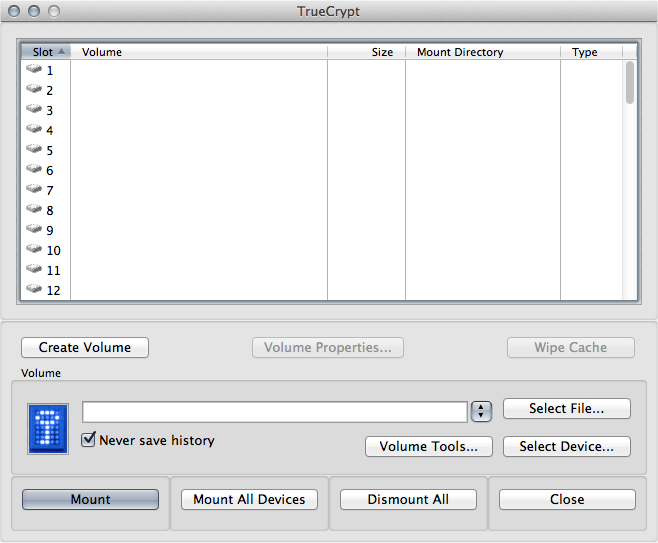
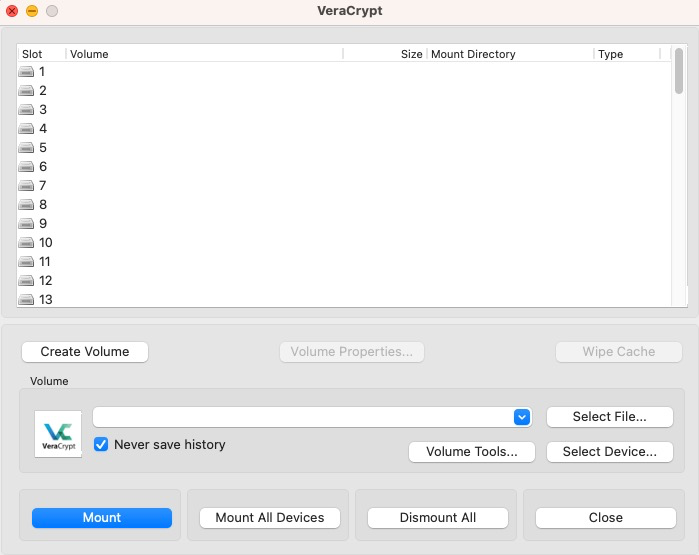
Privacy Guides articles update

diff --git a/src/content/pages/privacy-guides/creating-a-vm-within-a-hidden-truecrypt-partition.md b/src/content/pages/privacy-guides/creating-a-vm-within-a-hidden-truecrypt-partition.md
@@ -1,7 +1,7 @@
 ---
-title: Creating a VM within a hidden truecrypt partition
+title: Creating a VM within a hidden veracrypt partition
 author: Ed Holden
-url: /privacy-guides/creating-a-vm-within-a-hidden-truecrypt-partition/
+url: /privacy-guides/creating-a-vm-within-a-hidden-veracrypt-partition/
 section: Misc
 weight: 10
 date: 2013-10-23T13:54:43+00:00
@@ -16,111 +16,107 @@ The obvious solution to this problem is to encrypt the data. This, however, may 
 The big-picture view of the procedure to set up a hidden encrypted virtual machine are as follows:
 
   1. Download and install the required software: 
-      * [TrueCrypt][1]
-      * [Oracle VirtualBox][2]
+      * [VeraCrypt](https://veracrypt.fr/en/Downloads.html)
+      * [Oracle VirtualBox](https://www.virtualbox.org/)
       * Your operating system of choice (this guide will demonstrate FreeBSD but most other operating systems will work, including Windows and Linux distros such as Ubuntu)
-  2. Create a TrueCrypt encrypted container and a hidden volume within the container.
-  3. Launch VirtualBox and install your private OS into the hidden volume in the TrueCrypt container.
+  2. Create a VeraCrypt encrypted container and a hidden volume within the container.
+  3. Launch VirtualBox and install your private OS into the hidden volume in the VeraCrypt container.
 
 ## Downloading and installing the software
 
-We are going to assume that you already know how to download and install software in your host operating system. Here are a few items to note as you install the software. As of this writing, the latest stable versions of the required software are TrueCrypt v. 7.1a, VirtualBox v. 4.1.20, and FreeBSD 9.0. Be sure to use the latest versions of these applications to ensure that known bugs and security issues have been addressed. Also, since TrueCrypt will be the crux of your secure operating environment, be sure to validate the downloaded file with TrueCrypt's PGP signature to ensure that the application has not been tampered with (available from [www.truecrypt.org/downloads][3]).
+We are going to assume that you already know how to download and install software in your host operating system. Here are a few items to note as you install the software. As of this writing, the latest stable versions of the required software are VeraCrypt v. 1.25.4, VirtualBox v. 4.1.20, and FreeBSD 9.0. Be sure to use the latest versions of these applications to ensure that known bugs and security issues have been addressed. Also, since VeraCrypt will be the crux of your secure operating environment, be sure to validate the downloaded file with VeraCrypt's PGP signature to ensure that the application has not been tampered with (available from [https://veracrypt.fr/en/Downloads.html](https://veracrypt.fr/en/Downloads.html)).
 
 ## Creating the Hidden Volume
-1. Launch the TrueCrypt application and select `Create Volume`
-  ![Virtualbox screenshot setting up hidden truecrypt partition](/images-static/uploads/how-to-create-VM-within-hidden-truecrypt-partition-00.png)
+1. Launch the VeraCrypt application and select `Create Volume`<br></br>
+  ![](/images-static/uploads/how-to-create-VM-within-hidden-truecrypt-partition-00.png)
 
-2. Select the option to create an encrypted file container. This will give you the ability to keep the entire system portable (you can keep it on your hard drive, place it on a USB stick, etc.) Optionally, you can choose instead to actually create an encrypted partition on one of your devices.
-  ![Virtualbox screenshot setting up hidden truecrypt partition](/images-static/uploads/how-to-create-VM-within-hidden-truecrypt-partition-01.png)
+2. Select the option to create an encrypted file container. This will give you the ability to keep the entire system portable (you can keep it on your hard drive, place it on a USB stick, etc.) Optionally, you can choose instead to actually create an encrypted partition on one of your devices.<br></br>
+  ![](/images-static/uploads/how-to-create-VM-within-hidden-truecrypt-partition-01.png)
 
-3. At this screen, select the option to create a hidden TrueCrypt volume.
-  ![Virtualbox screenshot setting up hidden truecrypt partition](/images-static/uploads/how-to-create-VM-within-hidden-truecrypt-partition-03.png)
+3. At this screen, select the option to create a hidden VeraCrypt volume.<br></br>
+  ![](/images-static/uploads/how-to-create-VM-within-hidden-truecrypt-partition-02.png)
 
-4. Here you choose a filename for your container and a location to store it. Do not worry too much about hiding this file, its location is not a factor in protecting the plausible deniability of the existence of your virtual machine.
-  ![Virtualbox screenshot setting up hidden truecrypt partition](/images-static/uploads/how-to-create-VM-within-hidden-truecrypt-partition-02.png)
+4. Here you choose a filename for your container and a location to store it. Do not worry too much about hiding this file, its location is not a factor in protecting the plausible deniability of the existence of your virtual machine.<br></br>
+  ![](/images-static/uploads/how-to-create-VM-within-hidden-truecrypt-partition-03.png)
 
-5. Here, you are to select the encryption and hash functions. Unless you have compelling reasons otherwise, it is recommended to use the default settings.
-  ![Virtualbox screenshot setting up hidden truecrypt partition](/images-static/uploads/how-to-create-VM-within-hidden-truecrypt-partition-04.png)
+5. Here, you are to select the encryption and hash functions. Unless you have compelling reasons otherwise, it is recommended to use the default settings.<br></br>
+  ![](/images-static/uploads/how-to-create-VM-within-hidden-truecrypt-partition-04.png)
 
-6. Select the size for your outer container. This should be large enough to accomodate both your decoy files and your hidden container that will hold your virtual machine.
-  ![Virtualbox screenshot setting up hidden truecrypt partition](/images-static/uploads/how-to-create-VM-within-hidden-truecrypt-partition-05.png)
+6. Select the size for your outer container. This should be large enough to accomodate both your decoy files and your hidden container that will hold your virtual machine.<br></br>
+  ![](/images-static/uploads/how-to-create-VM-within-hidden-truecrypt-partition-05.png)
 
-7. Now you are prompted to set the password for your outer container. It is important to heed the password recommendations provided by TrueCrypt on this screen. This password is the first layer in the `defense-in-depth` model provided by this system.
-  ![Virtualbox screenshot setting up hidden truecrypt partition](/images-static/uploads/how-to-create-VM-within-hidden-truecrypt-partition-06.png)
+7. Now you are prompted to set the password for your outer container. It is important to heed the password recommendations provided by VeraCrypt on this screen. This password is the first layer in the `defense-in-depth` model provided by this system.<br></br>
+  ![](/images-static/uploads/how-to-create-VM-within-hidden-truecrypt-partition-06.png)
 
-8. Now it is time to generate some entropy to base the cryptographic keys upon. Keep your mouse moving for a bit, but do not get carried away and waste too much time here.
-  ![Virtualbox screenshot setting up hidden truecrypt partition](/images-static/uploads/how-to-create-VM-within-hidden-truecrypt-partition-07.png)
+8. Now it is time to generate some entropy to base the cryptographic keys upon. Keep your mouse moving for a bit, but do not get carried away and waste too much time here.<br></br>
+  ![](/images-static/uploads/how-to-create-VM-within-hidden-truecrypt-partition-07.png)
 
-9. You have now created the outer volume; follow TrueCrypt's recommendations about placing decoy files within the volume. After completing that step, continue on until you get to the hidden volume encryption options box.
-  ![Virtualbox screenshot setting up hidden truecrypt partition](/images-static/uploads/how-to-create-VM-within-hidden-truecrypt-partition-08.png)
+9. You have now created the outer volume; follow VeraCrypt's recommendations about placing decoy files within the volume. After completing that step, continue on until you get to the hidden volume encryption options box.<br></br>
+  ![](/images-static/uploads/how-to-create-VM-within-hidden-truecrypt-partition-08.png)
 
-10. Again you are to select the encryption and hash functions, this time for the hidden volume. Unless you have compelling reasons otherwise, it is recommended to use the default settings.
-  ![Virtualbox screenshot setting up hidden truecrypt partition](/images-static/uploads/how-to-create-VM-within-hidden-truecrypt-partition-09.png)
+10. Again you are to select the encryption and hash functions, this time for the hidden volume. Unless you have compelling reasons otherwise, it is recommended to use the default settings.<br></br>
+  ![](/images-static/uploads/how-to-create-VM-within-hidden-truecrypt-partition-09.png)
 
-11. When selecting the size for the hidden volume, be sure to leave enough space outside of it for any additional decoy files you would like to place in the outer container.
-  ![Virtualbox screenshot setting up hidden truecrypt partition](/images-static/uploads/how-to-create-VM-within-hidden-truecrypt-partition-10.png)
+11. When selecting the size for the hidden volume, be sure to leave enough space outside of it for any additional decoy files you would like to place in the outer container.<br></br>
+  ![](/images-static/uploads/how-to-create-VM-within-hidden-truecrypt-partition-10.png)
 
-12. Now you are prompted to set the password for your hidden inner container. Make sure to set a password that is different from the outer volume password. Depending on which password you enter during usage, TrueCrypt will either mount the outer or hidden inner volume. This is the final layer of security before a person has access to your secret virtual machine: take that into consideration when creating you password.
-  ![Virtualbox screenshot setting up hidden truecrypt partition](/images-static/uploads/how-to-create-VM-within-hidden-truecrypt-partition-11.png)
+12. Now you are prompted to set the password for your hidden inner container. Make sure to set a password that is different from the outer volume password. Depending on which password you enter during usage, VeraCrypt will either mount the outer or hidden inner volume. This is the final layer of security before a person has access to your secret virtual machine: take that into consideration when creating you password.<br></br>
+  ![](/images-static/uploads/how-to-create-VM-within-hidden-truecrypt-partition-11.png)
 
-13. When choosing the filesystem to format your hidden container with, it is recommended to choose FAT for compatibility reasons (this may get changed during the installation of whatever OS you decide to install in the hidden partition).
-  ![Virtualbox screenshot setting up hidden truecrypt partition](/images-static/uploads/how-to-create-VM-within-hidden-truecrypt-partition-12.png)
+13. When choosing the filesystem to format your hidden container with, it is recommended to choose FAT for compatibility reasons (this may get changed during the installation of whatever OS you decide to install in the hidden partition).<br></br>
+  ![](/images-static/uploads/how-to-create-VM-within-hidden-truecrypt-partition-12.png)
 
-14. Again, we need to create some entropy for the encryption keys of the hidden volume. The more the better, but again, do not get carried away and waste too much time - remember, you are just trying to add some `true` randomness to the pseudo-random number generator being used to create the keys.
-  ![Virtualbox screenshot setting up hidden truecrypt partition](/images-static/uploads/how-to-create-VM-within-hidden-truecrypt-partition-13.png)
+14. Again, we need to create some entropy for the encryption keys of the hidden volume. The more the better, but again, do not get carried away and waste too much time - remember, you are just trying to add some `true` randomness to the pseudo-random number generator being used to create the keys.<br></br>
+  ![](/images-static/uploads/how-to-create-VM-within-hidden-truecrypt-partition-13.png)
 
-15. You are now done creating the outer encrypted volume (which will hold the decoy and your hidden volume) and the hidden volume itself. Click `Exit.` Now we move on to installing your virtual machine inside of the hidden volume.
-  ![Virtualbox screenshot setting up hidden truecrypt partition](/images-static/uploads/how-to-create-VM-within-hidden-truecrypt-partition-14.png)
+15. You are now done creating the outer encrypted volume (which will hold the decoy and your hidden volume) and the hidden volume itself. Click `Exit.` Now we move on to installing your virtual machine inside of the hidden volume.<br></br>
+  ![](/images-static/uploads/how-to-create-VM-within-hidden-truecrypt-partition-14.png)
 
-## Installing your OS of choice using VirtualBox and TrueCrypt
+## Installing your OS of choice using VirtualBox and VeraCrypt
 
-1. Make sure that you have unmounted any TrueCrypt volumes. Launch the TrueCrypt application if it is not already loaded and select your encrypted container file to mount. After clicking `Mount`, you will be prompted to enter your password. Be sure to enter the password you selected for the hidden container, not the outer container, since this is where we will be storing your new virtual machine.
-  ![Virtualbox screenshot setting up hidden truecrypt partition](/images-static/uploads/how-to-create-VM-within-hidden-truecrypt-partition-15.png)
+1. Make sure that you have unmounted any VeraCrypt volumes. Launch the VeraCrypt application if it is not already loaded and select your encrypted container file to mount. After clicking `Mount`, you will be prompted to enter your password. Be sure to enter the password you selected for the hidden container, not the outer container, since this is where we will be storing your new virtual machine.<br></br>
+  ![](/images-static/uploads/how-to-create-VM-within-hidden-truecrypt-partition-15.png)
 
-2. The main TrueCrypt screen should show that the hidden volume is mounted.
-  ![Virtualbox screenshot setting up hidden truecrypt partition](/images-static/uploads/how-to-create-VM-within-hidden-truecrypt-partition-16.png)
+2. The main VeraCrypt screen should show that the hidden volume is mounted.<br></br>
+  ![](/images-static/uploads/how-to-create-VM-within-hidden-truecrypt-partition-16.png)
   
-3. Now launch VirtualBox and select `New` to create a new virtual machine.
-  ![Virtualbox screenshot setting up hidden truecrypt partition](/images-static/uploads/how-to-create-VM-within-hidden-truecrypt-partition-17.png)
+3. Now launch VirtualBox and select `New` to create a new virtual machine.<br></br>
+  ![](/images-static/uploads/how-to-create-VM-within-hidden-truecrypt-partition-17.png)
   
-4. Continue through the wizard and enter the name and type of OS you will be installing
-  ![Virtualbox screenshot setting up hidden truecrypt partition](/images-static/uploads/how-to-create-VM-within-hidden-truecrypt-partition-18.png)
+4. Continue through the wizard and enter the name and type of OS you will be installing<br></br>
+  ![](/images-static/uploads/how-to-create-VM-within-hidden-truecrypt-partition-18.png)
   
-5. Select an appropriate amount of RAM to be allocated to your virtual machine; the more, the better, but remember not to choke out your host OS.
-  ![Virtualbox screenshot setting up hidden truecrypt partition](/images-static/uploads/how-to-create-VM-within-hidden-truecrypt-partition-19.png)
+5. Select an appropriate amount of RAM to be allocated to your virtual machine; the more, the better, but remember not to choke out your host OS.<br></br>
+  ![](/images-static/uploads/how-to-create-VM-within-hidden-truecrypt-partition-19.png)
   
-6. Here you will create the file that will represent your virtual machine disk. Feel free to use the default option unless you will need to be able to open the virtual machine using another VM manager (such as Parallels if you are on a Mac). 
-  ![Virtualbox screenshot setting up hidden truecrypt partition](/images-static/uploads/how-to-create-VM-within-hidden-truecrypt-partition-20.png)
-  ![Virtualbox screenshot setting up hidden truecrypt partition](/images-static/uploads/how-to-create-VM-within-hidden-truecrypt-partition-21.png)
+6. Here you will create the file that will represent your virtual machine disk. Feel free to use the default option unless you will need to be able to open the virtual machine using another VM manager (such as Parallels if you are on a Mac).<br></br>
+  ![](/images-static/uploads/how-to-create-VM-within-hidden-truecrypt-partition-20.png)
+  ![](/images-static/uploads/how-to-create-VM-within-hidden-truecrypt-partition-21.png)
   
-7. A dynamically allocated file will be fine - your space is already allocated during the TrueCrypt hidden volume creation process.
-  ![Virtualbox screenshot setting up hidden truecrypt partition](/images-static/uploads/how-to-create-VM-within-hidden-truecrypt-partition-22.png)
+7. A dynamically allocated file will be fine - your space is already allocated during the VeraCrypt hidden volume creation process.<br></br>
+  ![](/images-static/uploads/how-to-create-VM-within-hidden-truecrypt-partition-22.png)
   
-8. Now you will set the location of the file. Put it in the volume mounted by TrueCrypt (remember, this is automatically your hidden volume because you used the hidden volume password when you mounted the file in TrueCrypt). It is recommended that you set the max size to be slightly smaller than the amount of space that you reserved for your hidden volume in TrueCrypt.
-  ![Virtualbox screenshot setting up hidden truecrypt partition](/images-static/uploads/how-to-create-VM-within-hidden-truecrypt-partition-23.png)
+8. Now you will set the location of the file. Put it in the volume mounted by VeraCrypt (remember, this is automatically your hidden volume because you used the hidden volume password when you mounted the file in VeraCrypt). It is recommended that you set the max size to be slightly smaller than the amount of space that you reserved for your hidden volume in VeraCrypt.<br></br>
+  ![](/images-static/uploads/how-to-create-VM-within-hidden-truecrypt-partition-23.png)
   
-9. The new virtual machine should be created and appear in the main VirtualBox screen. Select the new VM and power it on.
-  ![Virtualbox screenshot setting up hidden truecrypt partition](/images-static/uploads/how-to-create-VM-within-hidden-truecrypt-partition-24.png)
+9. The new virtual machine should be created and appear in the main VirtualBox screen. Select the new VM and power it on.<br></br>
+  ![](/images-static/uploads/how-to-create-VM-within-hidden-truecrypt-partition-24.png)
   
-10. On the first launch of the new VM, you will be met with an installer wizard to help you get your new OS installed in the VM. Continue with the process for installing your OS of choice (either from a downloaded iso or CD/other install media).
-  ![Virtualbox screenshot setting up hidden truecrypt partition](/images-static/uploads/how-to-create-VM-within-hidden-truecrypt-partition-25.png)
+10. On the first launch of the new VM, you will be met with an installer wizard to help you get your new OS installed in the VM. Continue with the process for installing your OS of choice (either from a downloaded iso or CD/other install media).<br></br>
+  ![](/images-static/uploads/how-to-create-VM-within-hidden-truecrypt-partition-25.png)
   
-11. After getting your new system up and running, shut down the VM and right click on the VM in the main VirtualBox screen and click `Settings`. Select `Advanced` under the System heading and change the snapshots storage location to be the mounted hidden TrueCrypt volume.Additionally, you should move the VM's .vbox file from its normal location (usually in the `Virtual Box VMs` directory in your home directory) into the hidden TrueCrypt volume with the .vdi file that represents your virtual machine itself.
-  ![Virtualbox screenshot setting up hidden truecrypt partition](/images-static/uploads/how-to-create-VM-within-hidden-truecrypt-partition-26.png)
+11. After getting your new system up and running, shut down the VM and right click on the VM in the main VirtualBox screen and click `Settings`. Select `Advanced` under the System heading and change the snapshots storage location to be the mounted hidden VeraCrypt volume. Additionally, you should move the VM's .vbox file from its normal location (usually in the `Virtual Box VMs` directory in your home directory) into the hidden VeraCrypt volume with the .vdi file that represents your virtual machine itself.<br></br>
+  ![](/images-static/uploads/how-to-create-VM-within-hidden-truecrypt-partition-26.png)
 
 ## Usage
 
-To launch your new hidden VM, mount your TrueCrypt hidden volume by opening the container file in TrueCrypt, but supply your hidden volume password instead of your outer volume password. Then double click the .vbox file. This will launch VirtualBox and start up the secret VM.
+To launch your new hidden VM, mount your VeraCrypt hidden volume by opening the container file in VeraCrypt, but supply your hidden volume password instead of your outer volume password. Then double click the .vbox file. This will launch VirtualBox and start up the secret VM.
 
-Be sure to unmount the hidden volume in TrueCrypt when you are done using your VM.
+Be sure to unmount the hidden volume in VeraCrypt when you are done using your VM.
 
-The fact that you have a block of encrypted data on your hard drive will be apparent to anyone who inspects your computer. If you are forced to decrypt it, simply provide the outer container password instead of the inner container password and all that will be visible is the decoy files you placed there earlier. There is no way to tell that the remaining encrypted data is not just filler created when TrueCrypt generated the outer container. You now have plausible deniability that there is anything else, let alone a separate virtual machine, on your computer. To read more on why this works, visit <http://www.truecrypt.org/docs/?s=hidden-volume>
+The fact that you have a block of encrypted data on your hard drive will be apparent to anyone who inspects your computer. If you are forced to decrypt it, simply provide the outer container password instead of the inner container password and all that will be visible is the decoy files you placed there earlier. There is no way to tell that the remaining encrypted data is not just filler created when VeraCrypt generated the outer container. You now have plausible deniability that there is anything else, let alone a separate virtual machine, on your computer. To read more on why this works, visit <https://veracrypt.fr/en/Documentation.html>
 
 ### Caveats
 
   1. After you are done using your secret VM and have shut it down, be sure to right-click on it in the main VirtualBox screen and select Remove (but not delete all data). This will keep it from being listed if someone launches VirtualBox (though it would not boot anyway if your hidden volume is not mounted). Again, this helps to add to the plausible deniability of the hidden VM's existence.
   2. Be sure not to create any shared directories or folders between the secret VM and your host OS. You want this VM to be completely segregated from the rest of your computer to eliminate the possibility of data leaking either way.
-
- [1]: http://www.truecrypt.org/
- [2]: http://www.virtualbox.org
- [3]: http://www.truecrypt.org/downloads

diff --git a/src/content/pages/privacy-guides/online-privacy-through-opsec-and-compartmentalization-part-3.md b/src/content/pages/privacy-guides/online-privacy-through-opsec-and-compartmentalization-part-3.md
@@ -28,7 +28,7 @@ layout: guides-details
 
 Common themes in these examples are poor planning, wishful thinking, and carelessness. Given the advantage of hindsight, it's clear that these people were not paying enough attention. They weren't planning ahead, and thinking things through. That is, their Operations Security (OPSEC) was horrible. Basically, OPSEC is just common sense. But it's common sense that's organized into a structured process. An authoritative source is arguably the [DoD Operations Security (OPSEC) Program Manual][1]. OPSEC Professionals also has a [slide deck][2], which is comprehensive and well-presented, but somewhat campy. It points out that the OPSEC "5-Step Process" is more accurately described as a continuous cycle of identification [of information that must be secured], analysis [of threats, vulnerabilities and risks] and remediation. That is, OPSEC is a way of being. For a hacker perspective, I recommend the grugq's classic [OPSEC for hackers][3]. Also great are follow-on interviews in [Blogs of War][4] and [Privacy PC][5].
 
-Another great source is [73 Rules of Spycraft][6] by Allen Dulles. Also see the original [article about them][7] by James Srodes, from the [Intelligencer][8]. Allen Dulles played a key intelligence role against Germany during WWII, and then in the Cold War, as the first civilian Director of Central Intelligence. He's rather controversial, especially regarding his role in the Bay of Pigs fiasco, and perhaps the JFK assassination. David Talbot wrote a biography, [The Devil's Chessboard][9]. And later [opined][10]: "I think that you can make a case, although I didn't explicitly say this in the book, for Allen Dulles being a psychopath." The CIA [predictably disagreed][11], albeit rather politely. But noted progressive Joseph Palermo [fundamentally agreed][12] with Talbot's assessment: "The Devil's Chessboard is quite simply the best single volume I've come across that details the morally bankrupt and cynical rise of an activist intelligence apparatus in this country that was not only capable of intervening clandestinely in the internal affairs of other nations but domestically too." Be that as it may, Allen Dulles had some excellent insights about OPSEC. At least, if you ignore the parts about managing human "assets".
+Another great source is [73 Rules of Spycraft][6] by Allen Dulles. Also see the original article about them by James Srodes, from the [Intelligencer][8]. Allen Dulles played a key intelligence role against Germany during WWII, and then in the Cold War, as the first civilian Director of Central Intelligence. He's rather controversial, especially regarding his role in the Bay of Pigs fiasco, and perhaps the JFK assassination. David Talbot wrote a biography, *The Devil's Chessboard*. And later [opined][10]: "I think that you can make a case, although I didn't explicitly say this in the book, for Allen Dulles being a psychopath." The CIA [predictably disagreed][11], albeit rather politely. But noted progressive Joseph Palermo [fundamentally agreed][12] with Talbot's assessment: "The Devil's Chessboard is quite simply the best single volume I've come across that details the morally bankrupt and cynical rise of an activist intelligence apparatus in this country that was not only capable of intervening clandestinely in the internal affairs of other nations but domestically too." Be that as it may, Allen Dulles had some excellent insights about OPSEC. At least, if you ignore the parts about managing human "assets".
 
 ### Identification of Critical Information, Analysis of Threats, and Identification of Vulnerabilities
 
@@ -164,9 +164,7 @@ OK, what else? Well, consider Operation Onymous. Perhaps the FBI might have know
  [4]: http://blogsofwar.com/hacker-OPSEC-with-the-grugq/
  [5]: http://privacy-pc.com/articles/hackers-guide-to-stay-out-of-jail-opsec-for-freedom-fighters.html
  [6]: https://blog.cyberwar.nl/2016/02/some-elements-of-intelligence-work-73-rules-of-spycraft-allen-dulles-1960s/
- [7]: http://www.oss.net/dynamaster/file_archive/100102/0a947a77d762061cc87ec541c2d2dcc7/2010-01-02%20Dulles%20on%20Tradecraft%20via%20Srodes.pdf
  [8]: http://www.afio.com/22_intelligencer.htm
- [9]: https://www.harpercollins.com/9780062276162/the-devils-chessboard
  [10]: http://www.motherjones.com/media/2015/10/book-review-devils-chessboard-david-talbot
  [11]: https://www.cia.gov/library/center-for-the-study-of-intelligence/csi-publications/csi-studies/studies/vol-60-no-3/seeger-the-devils-chessboard.html
  [12]: http://www.huffingtonpost.com/joseph-a-palermo/the-devils-chessboard-all_b_8959302.html

diff --git a/src/content/pages/privacy-guides/advanced-privacy-and-anonymity-part-7.md b/src/content/pages/privacy-guides/advanced-privacy-and-anonymity-part-7.md
@@ -39,7 +39,7 @@ Use disposable gloves to avoid fingerprints. Although it's probably overkill, yo
 
 Many VPN providers now accept Bitcoin payments. However, contrary to what you might have read, Bitcoins are not at all anonymous, unless you use them prudently. First, to comply with laws against money laundering, mainstream exchanges and purchasing channels now typically require documented identification. Second, the Bitcoin network by design records every transaction in a public accounting log, called the [blockchain][2].
 
-Another risk in using Bitcoins is [price volatility][3]. While that has been profitable for some speculators, it discourages routine use. For now, it's safest to limit Bitcoin holdings to current requirements.
+Another risk in using Bitcoins is price volatility. While that has been profitable for some speculators, it discourages routine use. For now, it's safest to limit Bitcoin holdings to current requirements.
 
 #### Buying Bitcoins
 
@@ -105,7 +105,7 @@ The best place for setting up the first transfer depends on the location of the 
 
 As noted above, it's best to use multiple sending and receiving addresses (or even multiple wallets) for transfers via mixing services. For each transfer from one client to another through a mixing service, you randomly spread the Bitcoins among several address combinations. That increases the anonymity that each transfer provides, by reducing correlation based on quantities transferred.
 
-There's no need to create a wallet at [BitLaundry][13]. Create a separate mixing scheme for Bitcoins from each of the appropriate Send addresses in your wallet(s). For destination addresses, use the Request (receiving) addresses of the next wallet(s) in your mixing chain. Specify the desired number of days, and transactions per recipient per day. After reviewing and confirming the scheme, send your Bitcoins to the funding address provided by BitLaundry. Repeat for each sending address.
+There's no need to create a wallet at BitLaundry. Create a separate mixing scheme for Bitcoins from each of the appropriate Send addresses in your wallet(s). For destination addresses, use the Request (receiving) addresses of the next wallet(s) in your mixing chain. Specify the desired number of days, and transactions per recipient per day. After reviewing and confirming the scheme, send your Bitcoins to the funding address provided by BitLaundry. Repeat for each sending address.
 
 [Bitcoin Fog][14] requires an account, but not an email address. [Blockchain][15] requires both. You send your Bitcoins from MultiBit to the deposit address for your mixing-service account. After (at least) several hours, send your Bitcoins to the Request (receiving) addresses for the next client in your mixing chain. With Bitcoin Fog, transfers are split over time (by at least six hours) and you can delay them. For increased anonymity, you can use multiple Bitcoin Fog accounts, one for each of your sending addresses.
 
@@ -137,19 +137,17 @@ It's important to stop Tor before clearing /var/lib/tor. Otherwise, it may all g
 You should now see a different set of entry guards.
 
  [1]: http://en.wikipedia.org/wiki/Printer_steganography
- [2]: http://blockchain.info/
- [3]: http://bitcoincharts.com/charts/mtgoxUSD#rg360ztgSzm1g10zm2g25zv
- [4]: http://blockchain.info/wallet/
+ [2]: https://www.blockchain.com/explorer
+ [4]: https://www.blockchain.com/wallet
  [5]: http://bitcoin.org/en/choose-your-wallet
- [6]: http://blockchain.info/charts/blocks-size
+ [6]: https://www.blockchain.com/charts/blocks-size
  [7]: https://en.bitcoin.it/wiki/Buying_bitcoins
  [8]: https://localbitcoins.com/
  [9]: https://bitcointalk.org/index.php?board=53.0
  [10]: http://bitcoin-otc.com/
  [11]: https://www.whonix.org/wiki/Main_Page
- [12]: https://blockchain.info/
- [13]: http://bitlaundry.appspot.com/
+ [12]: https://www.blockchain.com/explorer
  [14]: http://fogcore5n3ov3tui.onion/
- [15]: https://blockchain.info/wallet/
- [16]: https://blog.torproject.org/category/tags/entry-guards
+ [15]: https://www.blockchain.com/wallet
+ [16]: https://support.torproject.org/about/entry-guards/
  [17]: http://www.ohmygodel.com/publications/usersrouted-ccs13.pdf

diff --git a/src/content/pages/privacy-guides/online-privacy-through-opsec-and-compartmentalization-part-1.md b/src/content/pages/privacy-guides/online-privacy-through-opsec-and-compartmentalization-part-1.md
@@ -63,7 +63,7 @@ That's arguably not very surprising. It's just what people do. Or at least, that
 
 ![Compartmentalization: Isolation of Military Aircraft Using Blast Walls aka Revetments](/images-static/uploads/revetment.jpg)
 
-That's excellent advice, for sure. But pseudonymity alone is a fragile defense. Once one has been de-anonymized in any context, everything is de-anonymized, because it's all tied together. There is no forward security. Far more robust is to [fragment][19] and [compartmentalize][20] one's online activity across multiple unlinked [personas][21]. With effective compartmentalization, damage is isolated and limited. And overall, it's essential to implement and practice strong [Operations Security (OPSEC)][22]. But first, before getting into specifics, it's instructive to consider some examples, showing how easily and spectacularly online anonymity can fail.
+That's excellent advice, for sure. But pseudonymity alone is a fragile defense. Once one has been de-anonymized in any context, everything is de-anonymized, because it's all tied together. There is no forward security. Far more robust is to fragment and compartmentalize one's online activity across multiple unlinked personas. With effective compartmentalization, damage is isolated and limited. And overall, it's essential to implement and practice strong Operations Security (OPSEC). But first, before getting into specifics, it's instructive to consider some examples, showing how easily and spectacularly online anonymity can fail.
 
  [1]: http://knowyourmeme.com/memes/eternal-september
  [2]: http://knowyourmeme.com/memes/on-the-internet-nobody-knows-youre-a-dog
@@ -83,7 +83,3 @@ That's excellent advice, for sure. But pseudonymity alone is a fragile defense. 
  [16]: https://www.theatlantic.com/technology/archive/2017/02/browsing-history-identity/515763/
  [17]: http://randomwalker.info/publications/browsing-history-deanonymization.pdf
  [18]: http://www.theverge.com/2017/3/20/14985328/internet-providers-web-browsing-history-fcc-privacy-rules
- [19]: http://www.jdubuzz.com/files/2017/01/fight-club.jpg
- [20]: http://www.globalsecurity.org/military/intro/images/revetment-dfst9209119.jpg
- [21]: https://3.bp.blogspot.com/-ct6yKOCjxBc/Uc8xKS_qj2I/AAAAAAAAANA/TYCa_uWm08U/
- [22]: https://www.OPSECprofessionals.org/official/081103_DOD_OPSEC_Manual.pdf

diff --git a/src/content/pages/privacy-guides/advanced-privacy-and-anonymity-part-3.md b/src/content/pages/privacy-guides/advanced-privacy-and-anonymity-part-3.md
@@ -186,14 +186,14 @@ It's also prudent to disable WebGL in browsers before using them online. Take th
  [9]: https://en.wikipedia.org/wiki/Sphere_of_influence
  [10]: https://www.torproject.org/
  [11]: https://www.torproject.org/projects/torbrowser.html.en
- [12]: https://blog.torproject.org/blog/tor-weekly-news-%E2%80%94-august-7th-2013
+ [12]: https://blog.torproject.org/tor-weekly-news-august-7th-2013/
  [13]: https://tails.boum.org/
  [14]: https://www.whonix.org/wiki/Main_Page
  [15]: https://bitbucket.org/ra_/
- [16]: https://www.torproject.org/docs/bridges
- [17]: https://www.torproject.org/docs/bridges#PluggableTransports
+ [16]: https://support.torproject.org/#censorship-7
+ [17]: https://support.torproject.org/#operators-6
  [18]: https://forums.comodo.com/firewall-help-cis/configuring-to-block-all-nonvpn-traffic-t91413.15.html
- [19]: http://thenewtech.tv/it/openbsd-pf-on-mac-osx-lion
+ [19]: https://en.wikipedia.org/wiki/PF_%28firewall%29
  [20]: https://github.com/adrelanos/VPN-Firewall
  [21]: https://en.wikipedia.org/wiki/PF_%28firewall%29
  [22]: /privacy-guides/advanced-privacy-and-anonymity-part-2/
